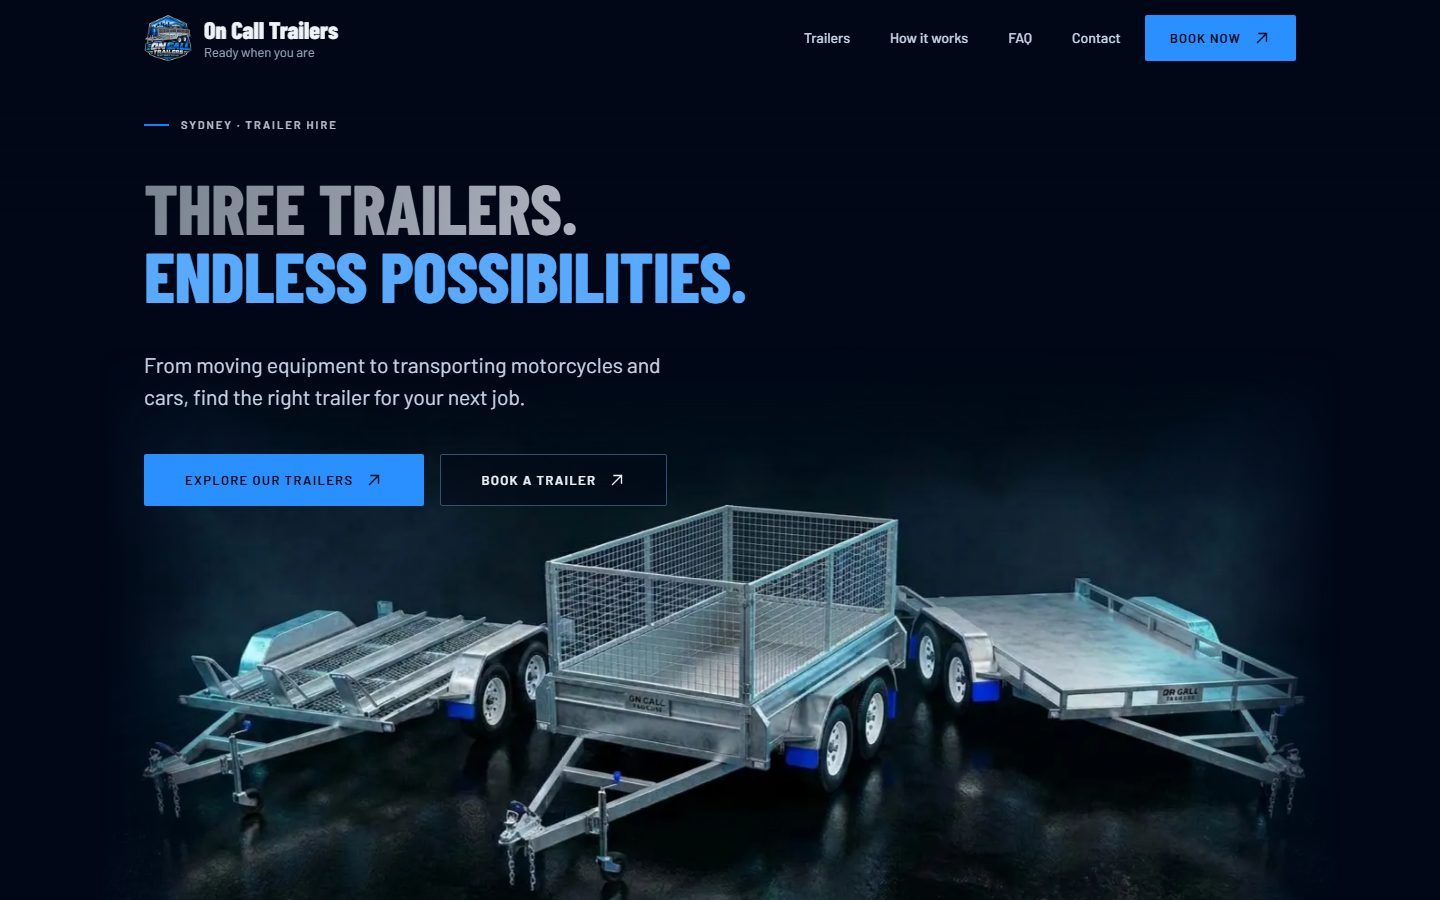
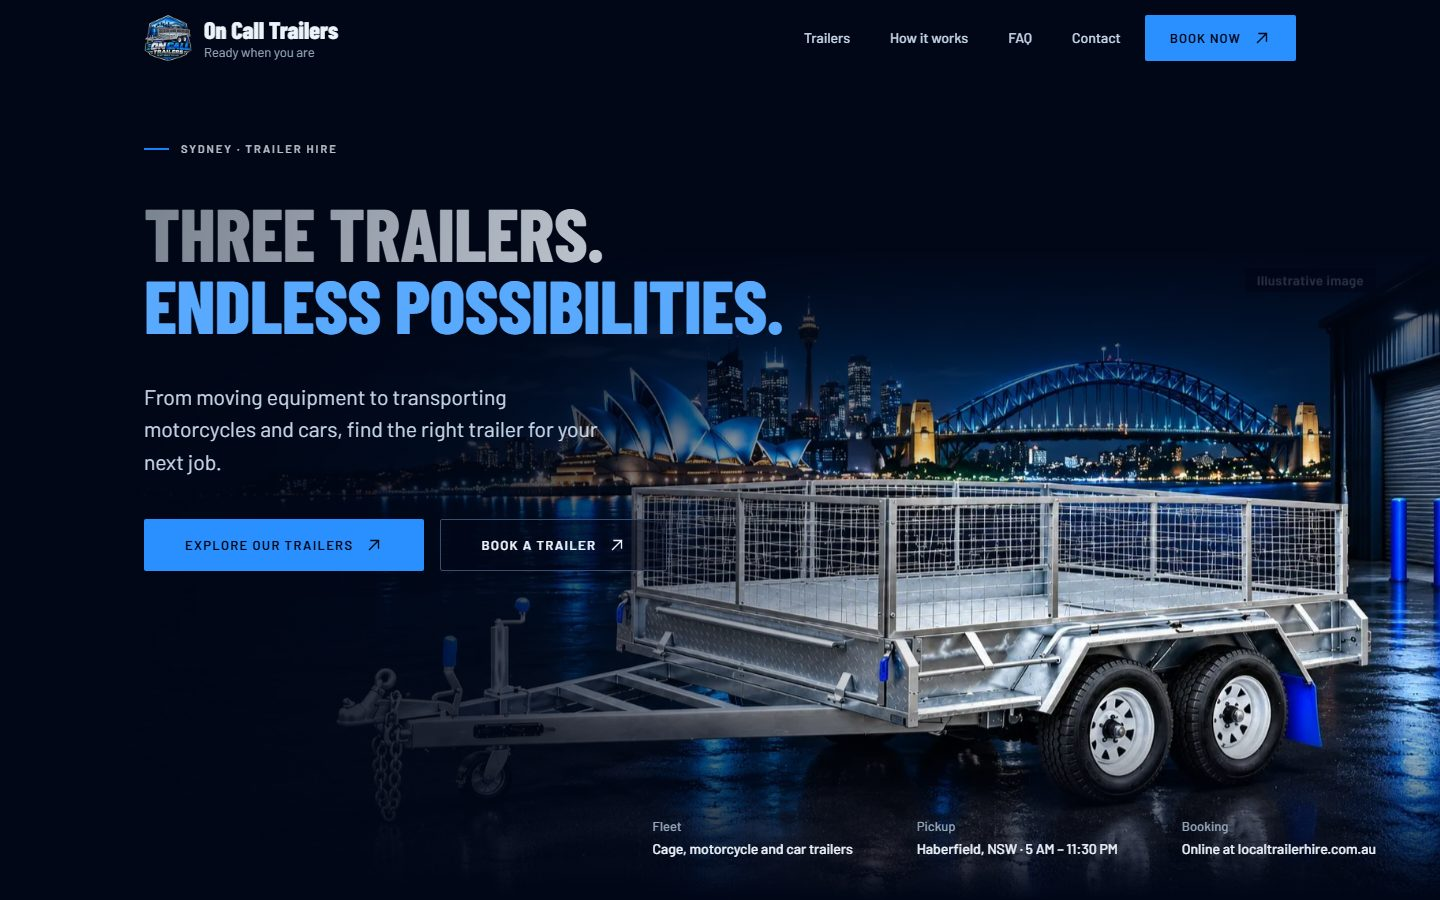
fix(hero): restore the night-harbour hero and shine with the new headline
The showroom change had replaced the harbour image and the pointer flashlight shine with a lineup render. Restore the original hero image, shine and parallax, keep the new headline, copy and buttons, and drop the unused lineup assets.

diff --git a/src/components/Hero.tsx b/src/components/Hero.tsx
@@ -1,22 +1,20 @@
 'use client';
 
 import { motion, useScroll, useTransform } from 'motion/react';
+import Image from 'next/image';
 import { useRef } from 'react';
+import harbour from '@/assets/hero-harbour.webp';
 import { getBooking } from '@/data/booking';
-import { fleetImages, imageUrl, largestUrl, srcSetOf } from '@/data/fleetImages';
 import { site } from '@/data/site';
 import { BookingLink } from './BookingLink';
 import { ArrowIcon } from './Icons';
 
-const HERO_ALT =
-  'Illustrative 3D render of three galvanised trailers side by side on a dark, wet studio floor: a motorcycle trailer, a cage box trailer and a car trailer';
-
-/** The first screen: headline over the three-trailer lineup, which drifts slightly slower than the page. */
+/** The first screen: headline over the night-harbour image, which drifts slightly slower than the page. */
 export function Hero() {
   const ref = useRef<HTMLElement>(null);
   const booking = getBooking();
   const { scrollYProgress } = useScroll({ target: ref, offset: ['start start', 'end start'] });
-  const mediaY = useTransform(scrollYProgress, [0, 1], ['0%', '8%']);
+  const mediaY = useTransform(scrollYProgress, [0, 1], ['0%', '10%']);
   const contentY = useTransform(scrollYProgress, [0, 1], ['0%', '-6%']);
 
   const facts = [
@@ -26,24 +24,18 @@ export function Hero() {
   ];
 
   return (
-    <section className="hero hero--fleet" ref={ref}>
+    <section className="hero" ref={ref}>
       <motion.div className="hero__media" style={{ y: mediaY }}>
-        {/* Art direction: the portrait poster keeps all three trailers in frame on phones; the landscape lineup fills wider screens. */}
-        <picture>
-          <source media="(max-width: 700px)" srcSet={fleetImages.lineupPortrait.widths.map((w) => `${imageUrl(fleetImages.lineupPortrait, w)} ${w}w`).join(', ')} sizes="100vw" />
-          <img
-            src={largestUrl(fleetImages.lineup)}
-            srcSet={srcSetOf(fleetImages.lineup)}
-            sizes="100vw"
-            width={fleetImages.lineup.width}
-            height={fleetImages.lineup.height}
-            alt={HERO_ALT}
-            loading="eager"
-            decoding="sync"
-            fetchPriority="high"
-          />
-        </picture>
+        <Image
+          src={harbour}
+          alt="Galvanised tandem cage trailer parked on the waterfront with the Sydney Opera House and Harbour Bridge lit up behind it at night"
+          preload
+          sizes="100vw"
+        />
         <p className="illus-tag">Illustrative image</p>
+        <div className="hero__lit" aria-hidden="true">
+          <Image src={harbour} alt="" sizes="100vw" />
+        </div>
       </motion.div>
       <div className="hero__shade" aria-hidden="true" />
 
@@ -68,8 +60,7 @@ export function Hero() {
             <ArrowIcon className="btn__icon" />
           </a>
           <BookingLink className="btn btn--ghost">Book a Trailer</BookingLink>
-        </div>
-      </motion.div>
+        </div>      </motion.div>
 
       <dl className="hero__facts">
         {facts.map((fact) => (

diff --git a/src/styles/fleet.css b/src/styles/fleet.css
@@ -3,23 +3,6 @@
  * they compose with the pointer tilt on `transform`). Every loop stops for prefers-reduced-motion and for the
  * site's own pause switch (html[data-motion="off"]). */
 
-/* ---------- hero: three-trailer lineup ---------- */
-/* The text sits first; the lineup follows in flow and is pulled up under it, so the dark upper band of the image sits
- * behind the headline and no trailer is ever cropped or covered by copy. */
-.hero--fleet { display: flex; flex-direction: column; min-height: 0; overflow: clip; }
-.hero--fleet .hero__content { order: 1; position: relative; z-index: 2; padding-top: calc(76px + var(--space-xl)); padding-bottom: 0; }
-.hero--fleet .hero__title { max-width: none; font-size: clamp(2.5rem, 4.9vw, 4.75rem); }
-.hero--fleet .hero__lead { max-width: 44ch; }
-.hero--fleet .hero__media { order: 2; position: relative; inset: auto; z-index: 0; height: auto; width: min(100%, 1240px); margin: calc(-1 * min(12.5vw, 160px)) auto 0; aspect-ratio: 16 / 9; -webkit-mask-image: linear-gradient(to right, transparent, #000 9%, #000 91%, transparent), linear-gradient(to bottom, transparent, #000 24%); -webkit-mask-composite: source-in; mask-image: linear-gradient(to right, transparent, #000 9%, #000 91%, transparent), linear-gradient(to bottom, transparent, #000 24%); mask-composite: intersect; }
-.hero--fleet .hero__media picture { display: contents; }
-.hero--fleet .hero__media img { width: 100%; height: 100%; object-fit: cover; animation: settle 2.4s var(--ease-out) both; }
-.hero--fleet .hero__shade { background: linear-gradient(to bottom, var(--color-paper) 0%, transparent 22%), linear-gradient(to top, var(--color-paper) 0%, transparent 14%); }
-.hero--fleet .illus-tag { top: auto; bottom: var(--space-md); right: var(--space-md); }
-.hero--fleet .hero__facts { z-index: 2; }
-@media (max-width: 43.75rem) {
-  .hero--fleet .hero__title { font-size: clamp(2.25rem, 11.5vw, 3.5rem); }
-  .hero--fleet .hero__media { width: 100%; aspect-ratio: 768 / 1376; margin-top: -44vw; -webkit-mask-image: linear-gradient(to bottom, transparent, #000 18%); mask-image: linear-gradient(to bottom, transparent, #000 18%); }
-}
 /* ---------- fleet cards ---------- */
 .fleet-cards { list-style: none; margin: 0; padding: 0; display: grid; gap: var(--space-xl); grid-template-columns: repeat(auto-fit, minmax(min(100%, 21rem), 1fr)); }
 .fleet-card-wrap { display: grid; min-width: 0; }

diff --git a/e2e/interactions.spec.ts b/e2e/interactions.spec.ts
@@ -122,7 +122,9 @@ test('hero shows the headline, a visible booking action and the trailer', async 
   await expect(explore).toHaveAttribute('href', '#fleet');
   // The booking action keeps the approved route.
   await expect(page.locator('.hero').getByRole('link', { name: /Book a Trailer/ })).toHaveAttribute('href', BOOKING);
-  await expect(page.getByRole('img', { name: /three galvanised trailers.*motorcycle trailer.*cage box trailer.*car trailer/i })).toBeVisible();
+  // The night-harbour background (Opera House and Harbour Bridge) and its flashlight shine layer stay in the hero.
+  await expect(page.getByRole('img', { name: /tandem cage trailer.*Sydney Opera House.*Harbour Bridge/i })).toBeVisible();
+  await expect(page.locator('.hero .hero__lit')).toHaveCount(1);
 });
 
 test('phone links use a valid tel: href', async ({ page }) => {

diff --git a/src/data/fleetImages.ts b/src/data/fleetImages.ts
@@ -27,8 +27,6 @@ export const fleetImages = {
   carHero: set('car-hero', HERO, 1376, 768),
   carSide: set('car-side', SIDE, 1200, 896),
   carCutout: set('car-cutout', CUTOUT, 1024, 1024),
-  lineup: set('lineup', HERO, 1376, 768),
-  lineupPortrait: set('lineup-portrait', [480, 768], 768, 1376),
 } as const;
 
 export const imageUrl = (image: ImageSet, width: number): string => `/images/trailers/${image.name}-${width}.webp`;

diff --git a/docs/fleet-showroom.md b/docs/fleet-showroom.md
@@ -8,7 +8,7 @@ untouched (see `lockii-integration.md`).
 
 | Page | Notes |
 | --- | --- |
-| `/` | Three-trailer hero, fleet cards, comparison table, then the existing sections |
+| `/` | Night-harbour hero (Opera House and Harbour Bridge, with the flashlight shine) carrying the new headline, then fleet cards, comparison table and the existing sections |
 | `/trailers` | Fleet cards and comparison |
 | `/trailers/tandem-cage-trailer` | 12x6 cage box trailer (existing URL kept) |
 | `/trailers/motorcycle-trailer` | Motorcycle x3 Trailer: indexable, in the sitemap |
